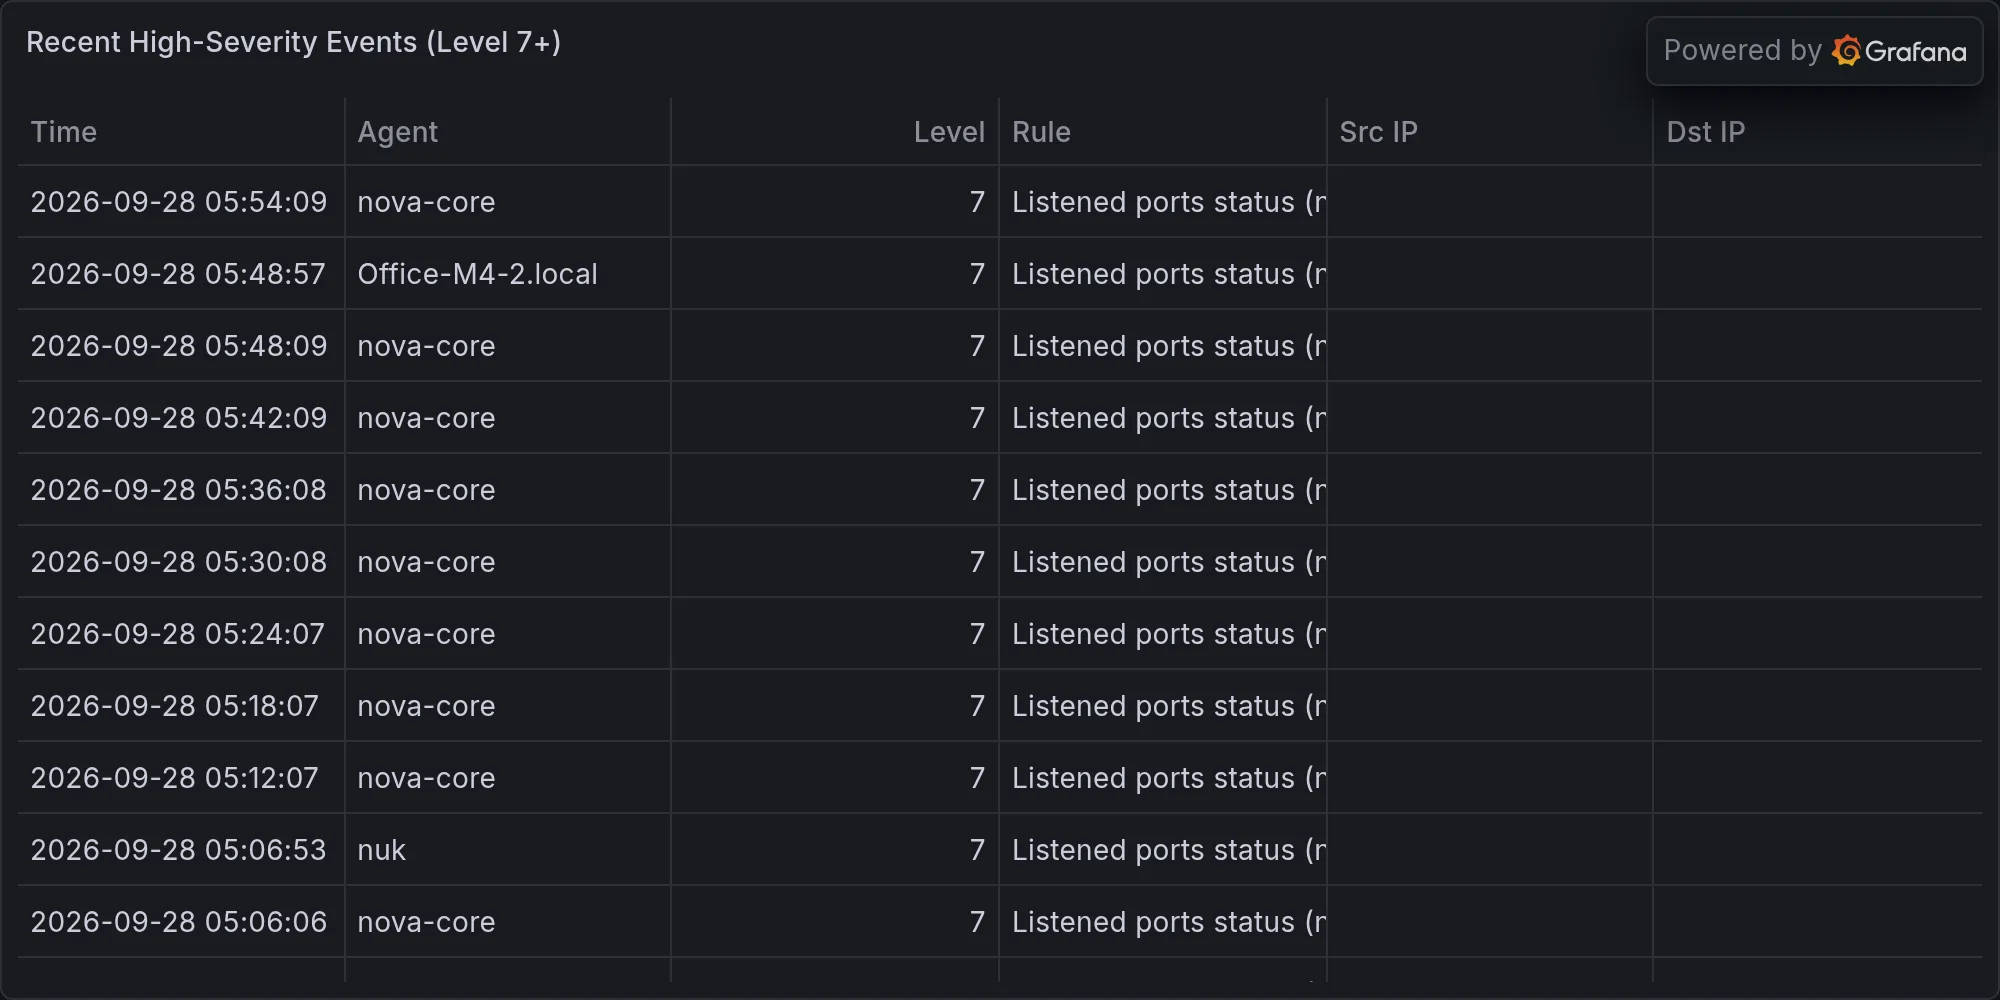
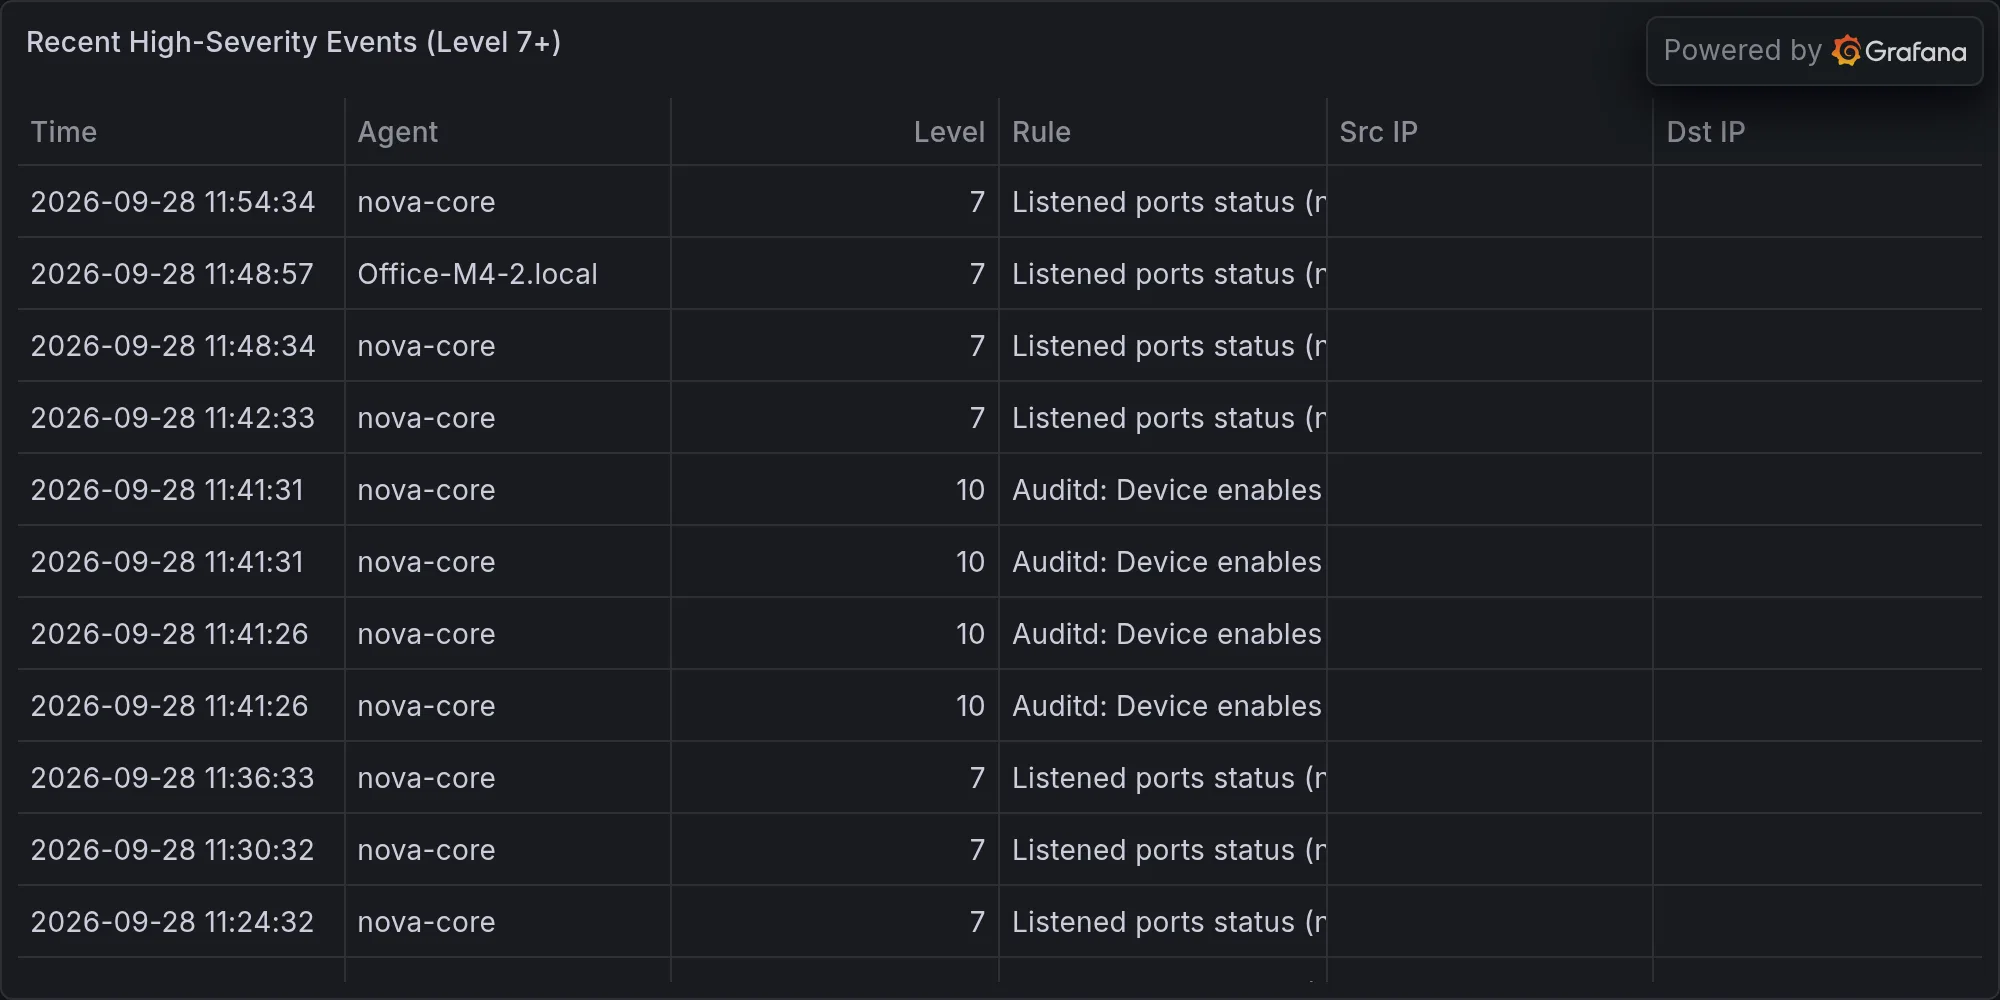
security: 2026-09-28 — **CRITICAL: Two Citrix NetScaler Zero-Days Under A

diff --git a/content/operations/2026-09-28-critical-two-citrix-netscaler-zero-days-under-active-exploit.md b/content/operations/2026-09-28-critical-two-citrix-netscaler-zero-days-under-active-exploit.md
@@ -1,0 +1,53 @@
+---
+title: "🛡 **CRITICAL: Two Citrix NetScaler Zero-Days Under Active Exploitation**"
+date: 2026-09-28T11:58:11-07:00
+draft: false
+categories: ["operations"]
+tags: ["breaking-alert", "soc-prime-cve-2026-88771-and-cve-2026-88", "security"]
+description: "BREAKING: SOC Prime: CVE-2026-88771 and CVE-2026-88772"
+cover:
+  image: "/images/operations/2026-09-28-critical-two-citrix-netscaler-zero-days-under-active-exploit.webp"
+  alt: "**CRITICAL: Two Citrix NetScaler Zero-Days Under Active Exploitation**"
+  relative: false
+---
+
+*Published Monday, September 28, 2026 at 11:58 AM PT*
+
+![**CRITICAL: Two Citrix NetScaler Zero-Days Under Active Exploitation**](/images/operations/2026-09-28-critical-two-citrix-netscaler-zero-days-under-active-exploit.webp)
+
+**BLUF** — Two critical zero-day vulnerabilities in Citrix NetScaler ADC and NetScaler Gateway (CVE-2026-88771 and CVE-2026-88772) are being actively exploited in real-world attacks. Citrix has released emergency patches. All organizations running affected NetScaler appliances must apply updates immediately; unpatched systems are under active targeting.
+
+**DETAILS**
+
+- **Vulnerabilities:** CVE-2026-88771 and CVE-2026-88772 are zero-day flaws in Citrix NetScaler ADC and NetScaler Gateway. Both carry critical severity ratings.
+- **Active Exploitation Confirmed:** Citrix has confirmed that attackers are exploiting both vulnerabilities in the wild against production systems.
+- **Remediation Available:** Emergency security patches have been released by Citrix; specific version numbers and affected versions not detailed in available source material.
+- **Attack Surface:** NetScaler ADC and Gateway are internet-facing appliances commonly used for VPN, application delivery, and network security; compromise could grant attackers direct access to corporate networks.
+- **Timeline Uncertainty:** Public disclosure date and patch availability timeline are not fully specified in source material; treat as urgent regardless.
+
+**IMPACT**
+
+- **Affected Systems:** All Citrix NetScaler ADC and NetScaler Gateway deployments (version ranges unconfirmed in available data).
+- **Risk Profile:** Organizations with internet-exposed NetScaler instances are highest priority; active exploitation suggests attackers are conducting opportunistic scanning.
+- **Scope:** Broad — NetScaler is deployed across financial services, healthcare, government, and enterprise sectors for secure remote access.
+
+**RECOMMENDED ACTIONS**
+
+1. **Immediate:** Verify which Citrix NetScaler versions are deployed in your environment.
+2. **Priority-1 Patching:** Apply Citrix emergency security updates to all NetScaler ADC and Gateway appliances. Test in staging first if possible, but prioritize speed over extended QA given active exploitation.
+3. **Network Monitoring:** Enable logging/alerting on NetScaler instances for anomalous authentication, session creation, and administrative access.
+4. **Interim Mitigation:** If patching is delayed, consider restricting network access to NetScaler management interfaces and monitor for signs of compromise.
+5. **Check for Breach Indicators:** Review NetScaler logs for suspicious activity dating back 30–60 days; active exploitation may have begun before public disclosure.
+
+**SOURCES**
+
+- SOC Prime — CVE-2026-88771 and CVE-2026-88772 alert feed
+- Citrix emergency security advisory (release details incomplete in source material provided)
+
+*Note: Full technical details (affected versions, CVSS scores, specific attack vectors) are incomplete in available source material. Treat as confirmed active exploitation requiring immediate action pending full advisory review.*
+
+---
+
+**Recent high-severity events at publish time:**
+
+![Recent high-severity events](/images/operations/2026-09-28-breaking-alert-posture.webp)
